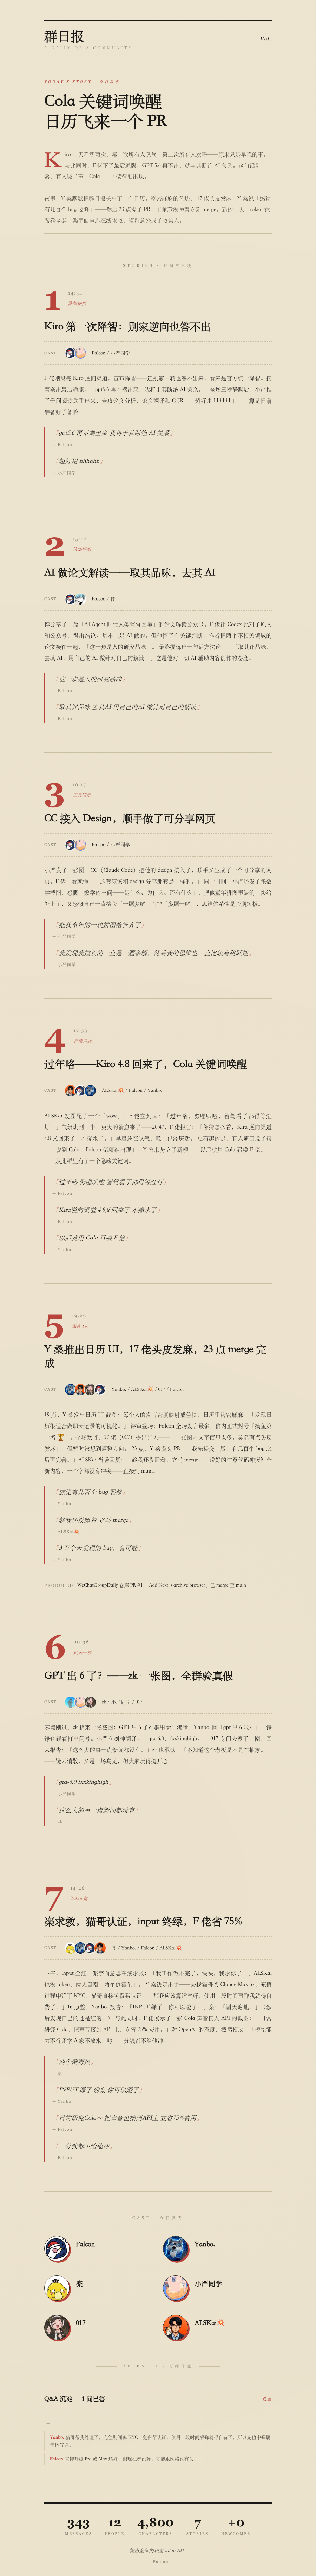
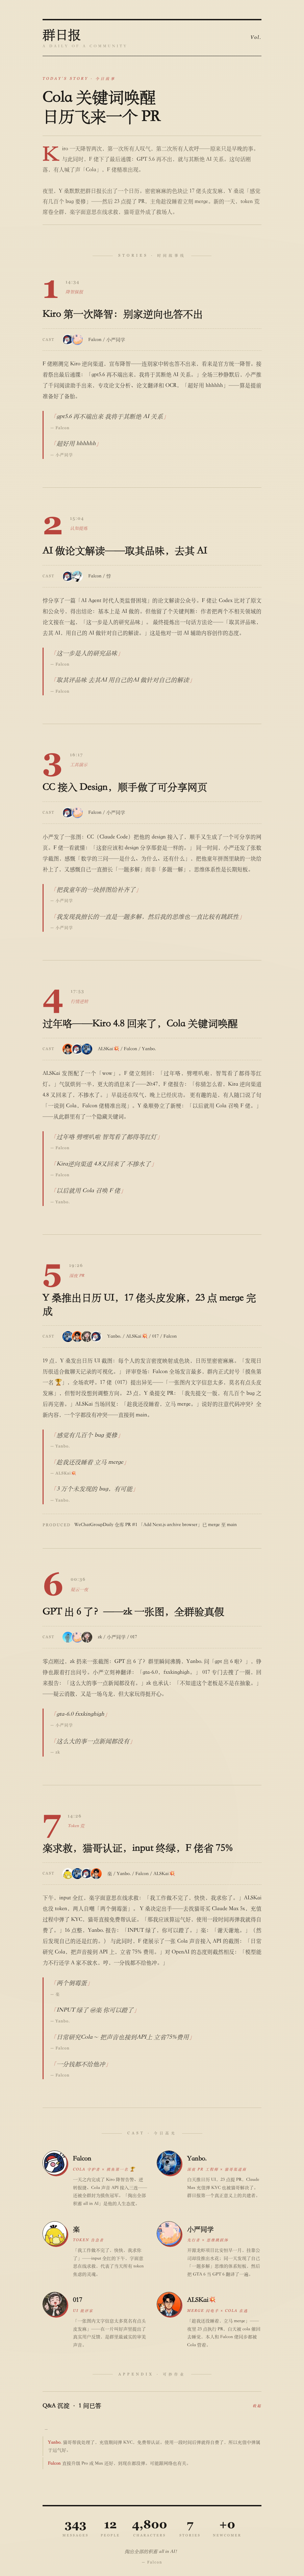
fix: 高光 badge/contribution 字段适配，重新生成第 28 期

diff --git a/🦞奇奇怪怪养龙虾/html/🦞奇奇怪怪养龙虾群2026-06-25.html b/🦞奇奇怪怪养龙虾/html/🦞奇奇怪怪养龙虾群2026-06-25.html
@@ -596,48 +596,48 @@ Y 桑决定出手——去找猫哥买 Claude Max 5x，充值过程中弹了 KYC
[1 lines of base64/hex data omitted]
     <div class="hl-info">
       <div class="hl-name">Falcon</div>
-      <div class="hl-tag"></div>
-      <div class="hl-desc"></div>
+      <div class="hl-tag">Cola 守护者 × 摸鱼第一名 🏆</div>
+      <div class="hl-desc">一天之内完成了 Kiro 降智告警、逆转报捷、Cola 声音 API 接入三连——还被全群封为摸鱼冠军。「掏出全部积蓄 all in AI」是他的人生态度。</div>
     </div>
   </div>
   <div class="hl">
[1 lines of base64/hex data omitted]
     <div class="hl-info">
       <div class="hl-name">Yanbo.</div>
-      <div class="hl-tag"></div>
-      <div class="hl-desc"></div>
+      <div class="hl-tag">深夜 PR 工程师 × 猫哥渠道商</div>
+      <div class="hl-desc">白天推日历 UI，23 点提 PR，Claude Max 充值弹 KYC 也被猫哥解决了。群日报第一个真正意义上的共建者。</div>
     </div>
   </div>
   <div class="hl">
[1 lines of base64/hex data omitted]
     <div class="hl-info">
       <div class="hl-name">楽</div>
-      <div class="hl-tag"></div>
-      <div class="hl-desc"></div>
+      <div class="hl-tag">Token 告急者</div>
+      <div class="hl-desc">「我工作做不完了，快快，我求你了」——input 全红的下午，字面意思在线求救，代表了当天所有 token 焦虑的灵魂。</div>
     </div>
   </div>
   <div class="hl">
[1 lines of base64/hex data omitted]
     <div class="hl-info">
       <div class="hl-name">小严同学</div>
-      <div class="hl-tag"></div>
-      <div class="hl-desc"></div>
+      <div class="hl-tag">先行者 × 思维跳跃体</div>
+      <div class="hl-desc">开源龙虾项目比安恒早一月，挂靠公司却没推出水花；同一天发现了自己「一题多解」思维的体系短板，然后把 GTA 6 当 GPT 6 翻译了一遍。</div>
     </div>
   </div>
   <div class="hl">
[1 lines of base64/hex data omitted]
     <div class="hl-info">
       <div class="hl-name">017</div>
-      <div class="hl-tag"></div>
-      <div class="hl-desc"></div>
+      <div class="hl-tag">UI 批评家</div>
+      <div class="hl-desc">「一张图内文字信息太多莫名有点头皮发麻」——在一片叫好声里提出了真实用户反馈，是群里最诚实的审美声音。</div>
     </div>
   </div>
   <div class="hl">
[1 lines of base64/hex data omitted]
     <div class="hl-info">
       <div class="hl-name">ALSKai💥</div>
-      <div class="hl-tag"></div>
-      <div class="hl-desc"></div>
+      <div class="hl-tag">merge 闪电手 × Cola 在逃</div>
+      <div class="hl-desc">「趁我还没睡着，立马 merge」——夜里 23 点执行 PR，白天被 cola 催回去睡觉，本人和 Falcon 佬同步都被 Cola 管着。</div>
     </div>
   </div>
 </div>